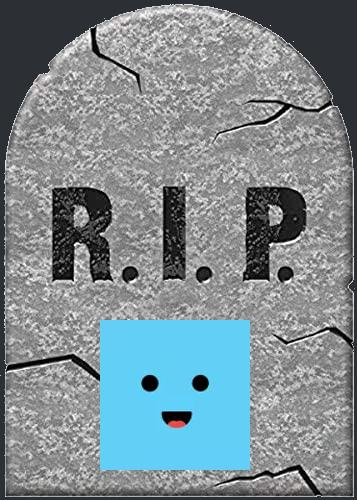
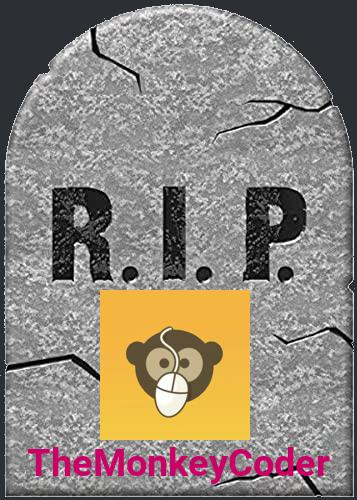
RIP command changed now text and image both will be generated

Changed region(s): [[0.0616, 0.57, 0.9244, 0.99]]

diff --git a/Cogs/Image_Cog.py b/Cogs/Image_Cog.py
@@ -38,20 +38,17 @@ class ImageCommands(commands.Cog):
             width, height = tomb.size
             d = ImageDraw.Draw(tomb)
             font = ImageFont.truetype(font='Roboto-Bold.ttf',size=38)
+            #width, height = wanted.size
+            asset = user.avatar_url
+            date_format = "%a, %d %b %Y "
+            #d.text(())
+            data = BytesIO(await asset.read())
+            pfp = Image.open(data)
+            pfp = pfp.resize((150,150))
             w,h = d.textsize(user.name,font=font)
             posX = (width-w)/2
-            d.text((posX,320),user.name,fill=(0,0,0),font=font)
-            #width, height = wanted.size
-            #asset = user.name
-            date_format = "%a, %d %b %Y "
-            timestamp = user.created_at.strftime(date_format)
-            w_time,h_time = d.textsize(timestamp,font=font)
-            time_font = ImageFont.truetype(font='Roboto-Bold.ttf',size=25)
-            d.text((40,360),f'From: {timestamp} to\n    {datetime.utcnow().strftime(date_format)} ',fill=(204,0,102),font=time_font)
-            #data = BytesIO(await asset.read())
-            #pfp = Image.open(data)
-            #pfp = pfp.resize((150,150))
-            #tomb.paste(pfp,(100,320))
+            d.text((posX,440),f'{user.name}',fill=(204,0,102),font=font)
+            tomb.paste(pfp,(100,290))
             tomb.save('RIP.jpg')
             await ctx.send(file=discord.File('RIP.jpg'))
         except Exception as e:

diff --git a/Cogs/fun_cog.py b/Cogs/fun_cog.py
@@ -8,7 +8,7 @@ from helpEmbeds import HelpEmbeds
 from .Listeners import AllListeners
 import pyjokes
 
-with open("truth.txt","r") as f:
+with open("truth.txt","r",encoding='utf-8') as f:
     truth_text = f.readlines()
 with open("dare.txt","r") as f:
     dare_text = f.readlines()

diff --git a/Database/db_files.py b/Database/db_files.py
@@ -12,4 +12,5 @@ ConfigVars = {
     'databaseURL':os.getenv('databaseURL')
 }
 
+
 firebase = pyrebase.initialize_app(ConfigVars)
